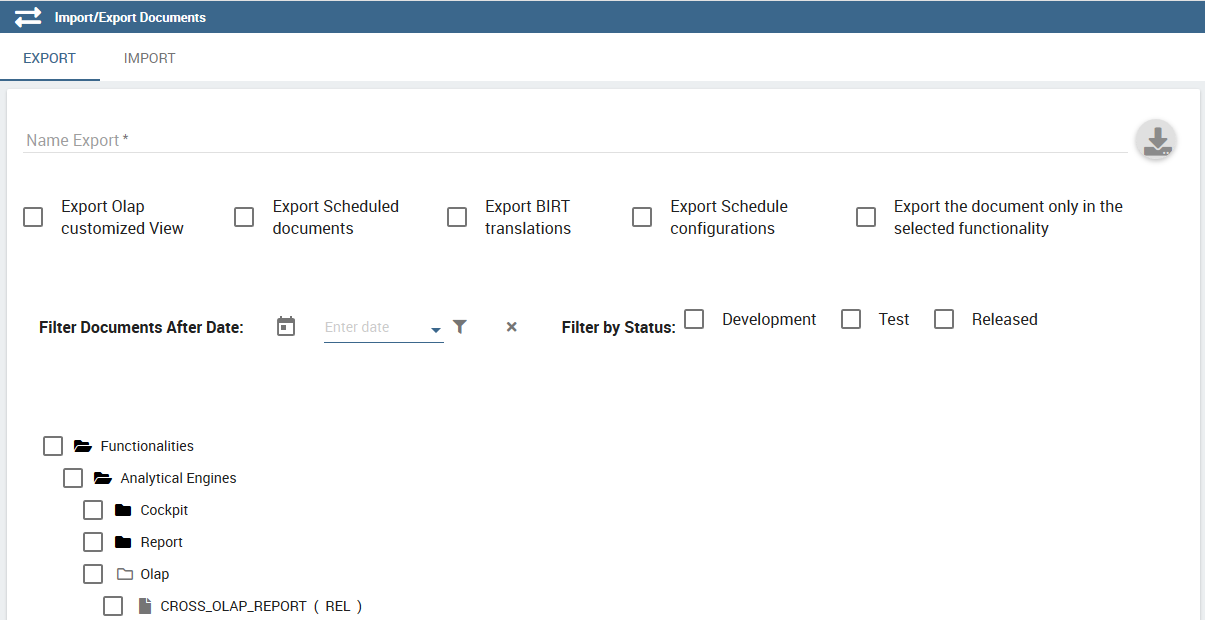
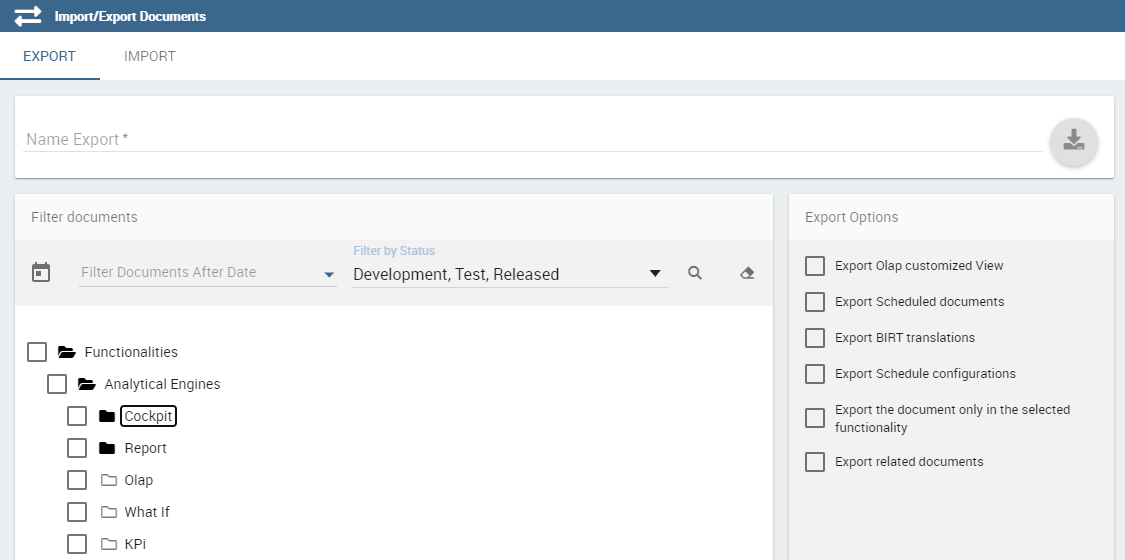
Added Export related documents functionality

diff --git a/administrator-guide/server-manager.rst b/administrator-guide/server-manager.rst
@@ -29,7 +29,7 @@ In the image above, on the left you have the list of existing tenants. On the to
 
     Product types tab (Left) Datasources tab (Right).
 
-Note that, in a single-tentant environment admin and superadmin coincides. In a multitenants environment (developed then through the Server Manager functionality), only *one* user has the superadmin role for each tenant, while there can be one or more users with admin role. In particular compared to the admin case, the superadmin has the possibility to manage the multi-tenancy. Moreover, he is the only one who can configure the JNDI datasources and access the cache configuration (through the cache manager menu item).
+Note that, in a single-tenant environment admin and superadmin coincides. In a multitenants environment (developed then through the Server Manager functionality), only *one* user has the superadmin role for each tenant, while there can be one or more users with admin role. In particular compared to the admin case, the superadmin has the possibility to manage the multi-tenancy. Moreover, he is the only one who can configure the JNDI datasources and access the cache configuration (through the cache manager menu item).
 
 Template Management
 -------------------
@@ -92,6 +92,8 @@ Before going on decide if you want to export **Olap customized View** and/or **S
    Checking this property the export will include all the schedulation associated to the chosen documents. At the end of the import you must have the schedulation saved into Scheduler section under the Tools area.
 - **Export the document only in the selected functionality**
    Checking this property the export will include documents only if they are inside a selected functionality.
+- **Related documents**
+   Checking this property the export will include documents linked by cross navigation to the selected ones.
 
 Now you are ready to click on the export icon to generate and download the .zip.
 Suppose you want to upload MyFirstExport.zip in another installation. Log in it and move to **Server Manager** > **Import\\Export Documents** area Switch to the **Import** tab and click on **Browse** to accede your personal folders. In Figure below we show the document import interface.
